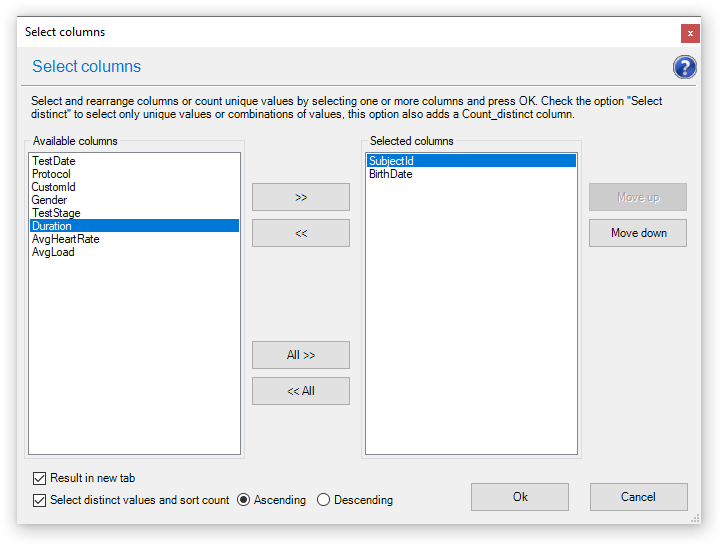
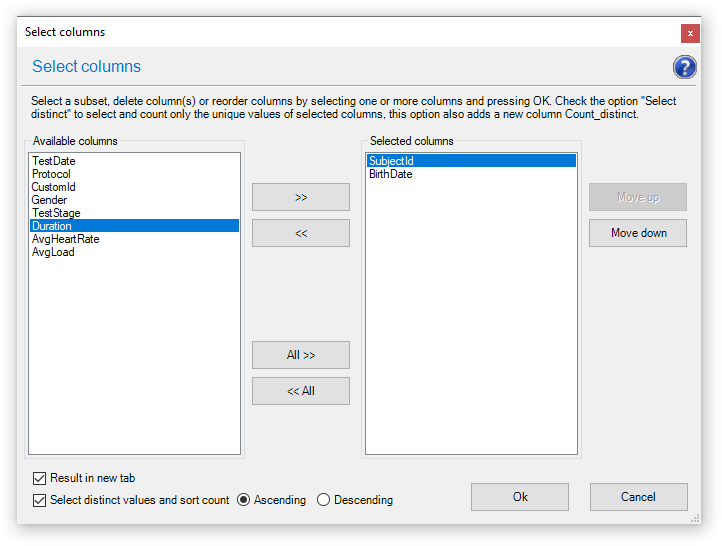
Updates for 0.4.9

Changed region(s): [[0.0914, 0.1557, 0.9446, 0.2179]]

diff --git a/CSVLintNppPlugin/Properties/AssemblyInfo.cs b/CSVLintNppPlugin/Properties/AssemblyInfo.cs
@@ -32,5 +32,5 @@ using System.Runtime.InteropServices;
 // You can specify all the values or you can default the Build and Revision Numbers 
 // by using the '*' as shown below:
 // [assembly: AssemblyVersion("1.0.*")]
-[assembly: AssemblyVersion("0.4.8.0")]
-[assembly: AssemblyFileVersion("0.4.8.0")]
+[assembly: AssemblyVersion("0.4.9.0")]
+[assembly: AssemblyFileVersion("0.4.9.0")]

diff --git a/docs/readme.md b/docs/readme.md
@@ -236,6 +236,38 @@ The plug-in menu options `Convert data` and `Generate metadata` will also export
 When converting the data to an SQL insert statements, the script will also contain column constrains or enum types, depending on the SQL database type.
 The Generate metadata option for "W3C CSV Schema JSON" will also export the coded value in the `format` tags.
 
+### Regular Expressions
+
+You can use Regular Expressions to validate columns of data.
+This type of column is not supported by the schema.ini format, but
+CSV Lint supports regular expressions using the `Regex` keyword followed by the
+regular expression. For example, if SubjectId may only contain values
+like `01-0123`, `02-0987` etc. See the example below.
+
+    Col4=SubjectId Text Width 7
+    ;Col4=SubjectId Regex ^\d{2}-\d{4}$
+
+Note: Regular Expressions cannot be automatically detected, you must enter
+these lines yourself (in the example `;Col4=..` etc.), and then
+click the blue disk icon to save, then click the Validate data button.
+See below for some examples of Regular Expressions you can use:
+
+| Column              | Example         | Regular Expression                               |
+|---------------------|-----------------|--------------------------------------------------|
+| Postal codes        | 30329           | ^\d{5}$                                          |
+| Dutch postcodes     | 9713 GZ         | ^[1-9][0-9]{3}\s?[A-Z]{2}$                       |
+| Email addresses     | contact@umc.nl  | ^[^\s@]+@[^\s@]+\.[^\s@]+$                       |
+| Telephone numbers   | +31-50-321-1234 | ^\+?[0-9\s().-]{7,20}$                           |
+| Scientific notation | 1.23E-05        | ^[+-]?\d{1}(?:[.,]\d+)?[Ee][+-]?\d{2}$           |
+| ATC codes           | N02BE01         | ^[A-Z][0-9]{2}(?:[A-Z](?:[A-Z](?:[0-9]{2})?)?)?$ |
+| ICD-10 codes        | E11.9           | ^[A-Z][0-9]{2}(?:\.[A-Z0-9]{1,4})?$              |
+| CRC32 hex 8         | 4dca83f6        | ^[A-Fa-f0-9]{8}$                                 |
+| IPv4 addresses      | 192.168.1.100   | ^\d{1,3}(\.\d{1,3}){3}$                          |
+
+To create custom regular expressions for your data, it is recommended to use
+[regex101](https://regex101.com/) or [regexr](https://regexr.com/)
+to test them before use in CSV Lint.
+
 Reformat
 --------
 Reformat data dialog has several options to reformat the entire data file.
@@ -503,11 +535,10 @@ By checking the "Remove original column" checkbox the original column will be
 removed after splitting it into new columns. Keep it unchecked to add the new
 columns but also keep the original values.
 
-Note that you can also right-click the radio buttons to deselect them.
-By not selecting any of the options and checking the "Remove original column" 
-you can press OK to simply delete the selected original column. Although it's
-easier and recommended to delete and reorder columns using the
-`Select Columns` dialog instead.
+Note that you can also right-click the radio buttons to deselect them. By not
+selecting any of the options and checking the "Remove original column" you can
+press OK to simply delete the selected original column. Although it's easier
+and recommended to instead use the `Select Columns` dialog to delete columns.
 
 Analyse data report
 -------------------
@@ -583,7 +614,9 @@ as well as applying character escaping where needed for these formats.
 For XML, enter a `Table/tag name` to use as tag name for each record,
 or leave it empty to use the current filename.
 
-Select HTML to convert the data to an HTML table. Set the batch size to limit
+Select HTML to convert the data to an HTML table. In the `HTML CSS Style`
+dropdown you can select the row and column colors; None, Minimal UI,
+Zebra rows, Zebra columns, CSV Lint colors. Set the batch size to limit
 the number of records per table, possibly resulting in multiple tables
 depending on your dataset size.
 
@@ -755,5 +788,6 @@ History
 28-feb-2025 - v0.4.6.8 Improved sorting for enumeration columns, minor updates  
 08-aug-2025 - v0.4.7 Select columns, large files warning, Fixed Width detection improved, minor updates  
 20-jun-2026 - v0.4.8 Fix random crashes, add HTML table option, minor updates  
+30-aug-2026 - v0.4.9 Validate Regular Expressions, auto-open docked window, minor updates  
 
 BdR©2019-2026 Free to use - send questions or comments: Bas de Reuver - bdr1976@gmail.com

diff --git a/readme.md b/readme.md
@@ -56,8 +56,8 @@ want to install the plug-in manually:
 
 * Go to the [releases page](https://github.com/BdR76/CSVLint/releases)
 * Find the latest release
-* 32bit version; unzip [CSVLint.dll (32bit)](../../releases/download/0.4.7/CSVLint_x86.zip/) to folder `.\Program Files (x86)\Notepad++\plugins\CSVLint\CSVLint.dll`.
-* 64bit version; unzip [CSVLint.dll (64bit)](../../releases/download/0.4.7/CSVLint_x64.zip/) to folder `.\Program Files\Notepad++\plugins\CSVLint\CSVLint.dll`.
+* 32bit version; unzip [CSVLint.dll (32bit)](../../releases/download/0.4.9/CSVLint_x86.zip/) to folder `.\Program Files (x86)\Notepad++\plugins\CSVLint\CSVLint.dll`.
+* 64bit version; unzip [CSVLint.dll (64bit)](../../releases/download/0.4.9/CSVLint_x64.zip/) to folder `.\Program Files\Notepad++\plugins\CSVLint\CSVLint.dll`.
 * restart Notepad++
 
 How to use it
